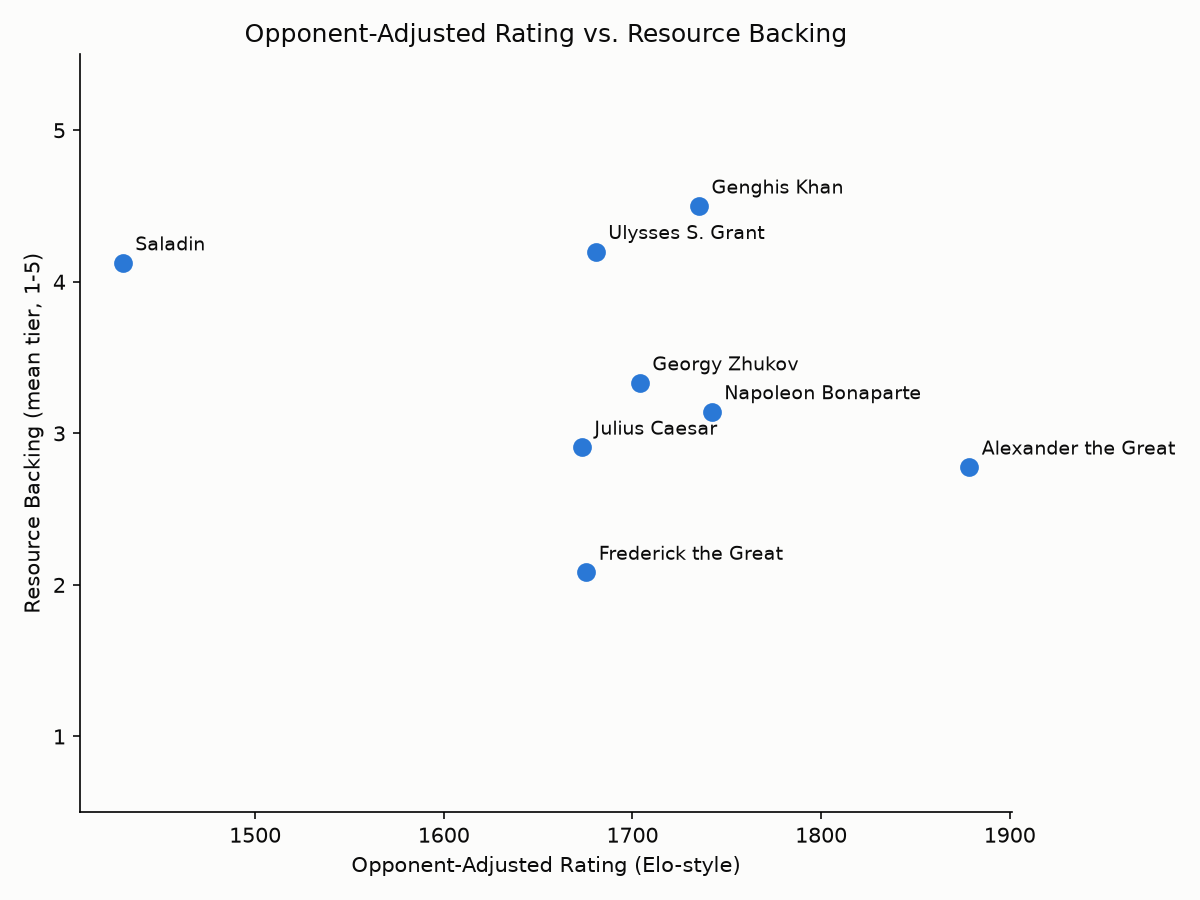
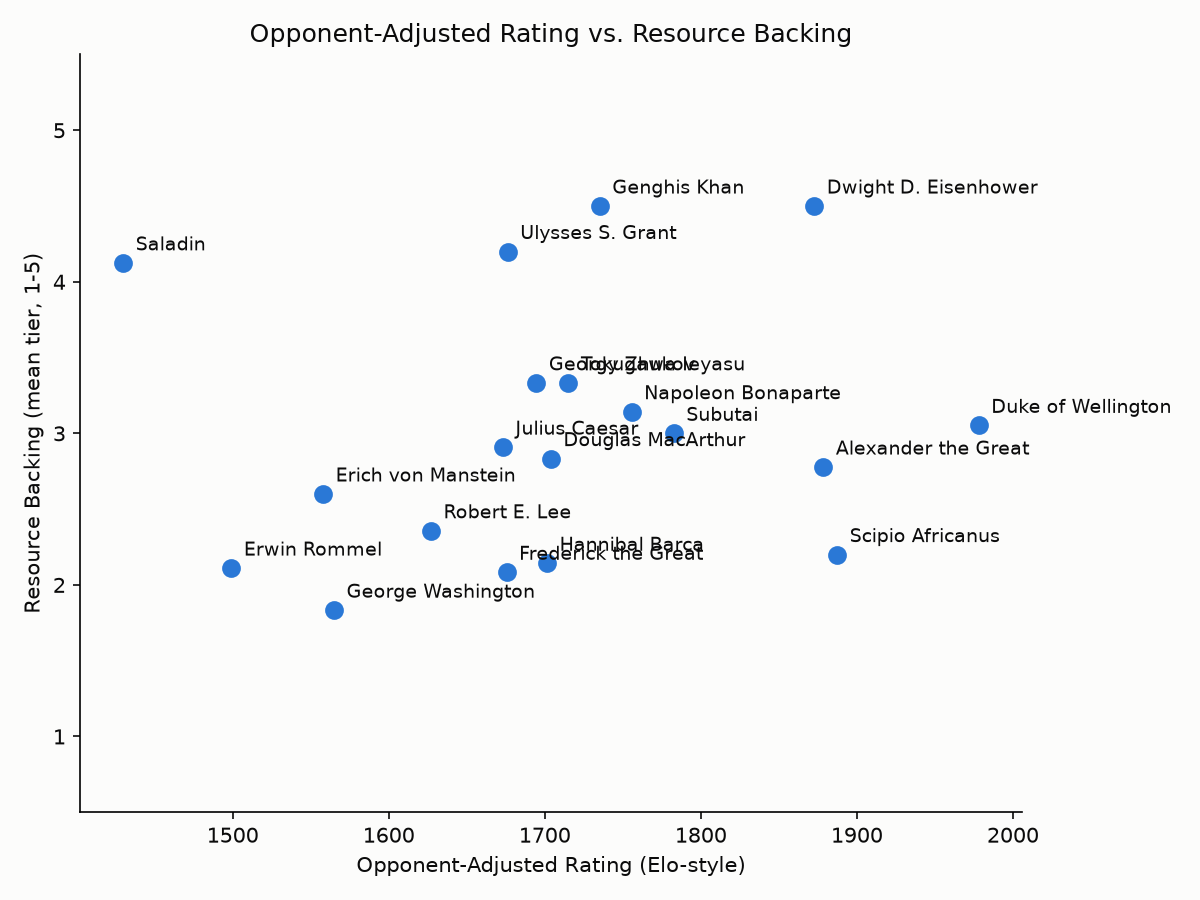
data: regenerate viz output and sanity-pass notes for 19-general roster
Re-ran validate_data.py, pytest, and all render_*.py scripts against the
expanded dataset; documented the n=2-era-cohort z-score artifact reappearing
in Early Modern/Napoleonic/Industrial after resolving for Ancient/Medieval/WWII.

diff --git a/output/viz/ranking_tables.html b/output/viz/ranking_tables.html
@@ -12,4 +12,4 @@ table.ranking-table th:nth-child(2), table.ranking-table td:nth-child(2) { text-
 table.ranking-table th:nth-child(3):not(:last-child), table.ranking-table td:nth-child(3):not(:last-child) { text-align: left; }
 table.ranking-table thead th { border-bottom: 2px solid #2a78d6; color: #52514e;
   font-weight: 600; }
-</style></head><body><h1>War Analyzer — Ranking Tables</h1><table class="ranking-table"><caption>Composite Power Ranking</caption><thead><tr><th>Rank</th><th>General</th><th>Era</th><th>Composite Score</th><th>OAR</th><th>WAR-Residual (90% CI)</th><th>Decisive Win Rate</th><th>Longevity-Adj. Value</th></tr></thead><tbody><tr><td>1</td><td>Alexander the Great</td><td>Ancient</td><td>+0.850</td><td>1878</td><td>+0.214 (+0.202 to +0.222)</td><td>100.0%</td><td>1.000</td></tr><tr><td>2</td><td>Genghis Khan</td><td>Medieval</td><td>+0.700</td><td>1735</td><td>+0.195 (+0.185 to +0.201)</td><td>87.5%</td><td>0.348</td></tr><tr><td>3</td><td>Frederick the Great</td><td>Early Modern</td><td>+0.000</td><td>1676</td><td>+0.036 (+0.033 to +0.040)</td><td>100.0%</td><td>0.475</td></tr><tr><td>4</td><td>Georgy Zhukov</td><td>WWII</td><td>+0.000</td><td>1704</td><td>+0.080 (+0.070 to +0.084)</td><td>100.0%</td><td>0.714</td></tr><tr><td>5</td><td>Napoleon Bonaparte</td><td>Napoleonic</td><td>+0.000</td><td>1742</td><td>+0.057 (+0.051 to +0.064)</td><td>90.9%</td><td>0.575</td></tr><tr><td>6</td><td>Ulysses S. Grant</td><td>Industrial</td><td>+0.000</td><td>1681</td><td>-0.076 (-0.082 to -0.071)</td><td>100.0%</td><td>2.100</td></tr><tr><td>7</td><td>Saladin</td><td>Medieval</td><td>-0.700</td><td>1430</td><td>-0.413 (-0.432 to -0.394)</td><td>100.0%</td><td>0.150</td></tr><tr><td>8</td><td>Julius Caesar</td><td>Ancient</td><td>-0.850</td><td>1673</td><td>-0.068 (-0.078 to -0.054)</td><td>100.0%</td><td>0.571</td></tr></tbody></table><h2>Category Rankings</h2><div class="category-grid"><table class="ranking-table"><caption>Win Rate</caption><thead><tr><th>Rank</th><th>General</th><th>Win Rate</th></tr></thead><tbody><tr><td>1</td><td>Genghis Khan</td><td>100.0%</td></tr><tr><td>2</td><td>Alexander the Great</td><td>100.0%</td></tr><tr><td>3</td><td>Georgy Zhukov</td><td>83.3%</td></tr><tr><td>4</td><td>Napoleon Bonaparte</td><td>78.6%</td></tr><tr><td>5</td><td>Frederick the Great</td><td>75.0%</td></tr><tr><td>6</td><td>Julius Caesar</td><td>72.7%</td></tr><tr><td>7</td><td>Ulysses S. Grant</td><td>60.0%</td></tr><tr><td>8</td><td>Saladin</td><td>37.5%</td></tr></tbody></table><table class="ranking-table"><caption>Casualty Efficiency</caption><thead><tr><th>Rank</th><th>General</th><th>Enemy:Own Casualties</th></tr></thead><tbody><tr><td>1</td><td>Genghis Khan</td><td>21.60:1</td></tr><tr><td>2</td><td>Alexander the Great</td><td>7.18:1</td></tr><tr><td>3</td><td>Julius Caesar</td><td>6.81:1</td></tr><tr><td>4</td><td>Napoleon Bonaparte</td><td>1.35:1</td></tr><tr><td>5</td><td>Ulysses S. Grant</td><td>1.34:1</td></tr><tr><td>6</td><td>Frederick the Great</td><td>1.26:1</td></tr><tr><td>7</td><td>Saladin</td><td>0.83:1</td></tr><tr><td>8</td><td>Georgy Zhukov</td><td>0.22:1</td></tr></tbody></table><table class="ranking-table"><caption>Opponent-Adjusted Rating</caption><thead><tr><th>Rank</th><th>General</th><th>OAR</th></tr></thead><tbody><tr><td>1</td><td>Alexander the Great</td><td>1878</td></tr><tr><td>2</td><td>Napoleon Bonaparte</td><td>1742</td></tr><tr><td>3</td><td>Genghis Khan</td><td>1735</td></tr><tr><td>4</td><td>Georgy Zhukov</td><td>1704</td></tr><tr><td>5</td><td>Ulysses S. Grant</td><td>1681</td></tr><tr><td>6</td><td>Frederick the Great</td><td>1676</td></tr><tr><td>7</td><td>Julius Caesar</td><td>1673</td></tr><tr><td>8</td><td>Saladin</td><td>1430</td></tr></tbody></table><table class="ranking-table"><caption>Clutch Rating</caption><thead><tr><th>Rank</th><th>General</th><th>Clutch Rating</th></tr></thead><tbody><tr><td>1</td><td>Genghis Khan</td><td>1.000 (1.000 to 1.000)</td></tr><tr><td>2</td><td>Georgy Zhukov</td><td>1.000 (1.000 to 1.000)</td></tr><tr><td>3</td><td>Alexander the Great</td><td>1.000 (1.000 to 1.000)</td></tr><tr><td>4</td><td>Julius Caesar</td><td>0.750 (0.625 to 0.778)</td></tr><tr><td>5</td><td>Frederick the Great</td><td>0.750 (0.722 to 0.773)</td></tr><tr><td>6</td><td>Napoleon Bonaparte</td><td>0.750 (0.722 to 0.800)</td></tr><tr><td>7</td><td>Ulysses S. Grant</td><td>0.500 (0.500 to 0.500)</td></tr><tr><td>8</td><td>Saladin</td><td>0.000 (0.000 to 0.667)</td></tr></tbody></table><table class="ranking-table"><caption>Squander Index</caption><thead><tr><th>Rank</th><th>General</th><th>Squander Index</th></tr></thead><tbody><tr><td>1</td><td>Saladin</td><td>0.0%</td></tr><tr><td>2</td><td>Julius Caesar</td><td>0.0%</td></tr><tr><td>3</td><td>Genghis Khan</td><td>0.0%</td></tr><tr><td>4</td><td>Georgy Zhukov</td><td>0.0%</td></tr><tr><td>5</td><td>Ulysses S. Grant</td><td>0.0%</td></tr><tr><td>6</td><td>Alexander the Great</td><td>22.2%</td></tr><tr><td>7</td><td>Napoleon Bonaparte</td><td>27.3%</td></tr><tr><td>8</td><td>Frederick the Great</td><td>44.4%</td></tr></tbody></table><table class="ranking-table"><caption>Longevity-Adjusted Value</caption><thead><tr><th>Rank</th><th>General</th><th>Longevity-Adj. Value</th></tr></thead><tbody><tr><td>1</td><td>Ulysses S. Grant</td><td>2.100</td></tr><tr><td>2</td><td>Alexander the Great</td><td>1.000</td></tr><tr><td>3</td><td>Georgy Zhukov</td><td>0.714</td></tr><tr><td>4</td><td>Napoleon Bonaparte</td><td>0.575</td></tr><tr><td>5</td><td>Julius Caesar</td><td>0.571</td></tr><tr><td>6</td><td>Frederick the Great</td><td>0.475</td></tr><tr><td>7</td><td>Genghis Khan</td><td>0.348</td></tr><tr><td>8</td><td>Saladin</td><td>0.150</td></tr></tbody></table></div></body></html>
+</style></head><body><h1>War Analyzer — Ranking Tables</h1><table class="ranking-table"><caption>Composite Power Ranking</caption><thead><tr><th>Rank</th><th>General</th><th>Era</th><th>Composite Score</th><th>OAR</th><th>WAR-Residual (90% CI)</th><th>Decisive Win Rate</th><th>Longevity-Adj. Value</th></tr></thead><tbody><tr><td>1</td><td>Dwight D. Eisenhower</td><td>WWII</td><td>+1.287</td><td>1873</td><td>+0.172 (+0.170 to +0.173)</td><td>100.0%</td><td>1.500</td></tr><tr><td>2</td><td>Alexander the Great</td><td>Ancient</td><td>+0.897</td><td>1878</td><td>+0.175 (+0.170 to +0.180)</td><td>100.0%</td><td>1.000</td></tr><tr><td>3</td><td>Frederick the Great</td><td>Early Modern</td><td>+0.850</td><td>1676</td><td>+0.085 (+0.082 to +0.085)</td><td>100.0%</td><td>0.475</td></tr><tr><td>4</td><td>Ulysses S. Grant</td><td>Industrial</td><td>+0.850</td><td>1676</td><td>-0.143 (-0.148 to -0.137)</td><td>100.0%</td><td>2.100</td></tr><tr><td>5</td><td>Subutai</td><td>Medieval</td><td>+0.774</td><td>1783</td><td>+0.222 (+0.189 to +0.247)</td><td>100.0%</td><td>0.250</td></tr><tr><td>6</td><td>Duke of Wellington</td><td>Napoleonic</td><td>+0.700</td><td>1978</td><td>+0.199 (+0.194 to +0.201)</td><td>88.9%</td><td>1.385</td></tr><tr><td>7</td><td>Scipio Africanus</td><td>Ancient</td><td>+0.450</td><td>1887</td><td>+0.213 (+0.205 to +0.219)</td><td>80.0%</td><td>0.625</td></tr><tr><td>8</td><td>Douglas MacArthur</td><td>WWII</td><td>+0.395</td><td>1704</td><td>+0.124 (+0.112 to +0.135)</td><td>100.0%</td><td>1.000</td></tr><tr><td>9</td><td>Genghis Khan</td><td>Medieval</td><td>+0.283</td><td>1735</td><td>+0.073 (+0.069 to +0.078)</td><td>87.5%</td><td>0.348</td></tr><tr><td>10</td><td>Tokugawa Ieyasu</td><td>Medieval</td><td>+0.145</td><td>1715</td><td>+0.035 (+0.029 to +0.048)</td><td>100.0%</td><td>0.109</td></tr><tr><td>11</td><td>Georgy Zhukov</td><td>WWII</td><td>+0.103</td><td>1695</td><td>+0.091 (+0.084 to +0.096)</td><td>100.0%</td><td>0.714</td></tr><tr><td>12</td><td>Hannibal Barca</td><td>Ancient</td><td>-0.442</td><td>1701</td><td>+0.072 (+0.063 to +0.080)</td><td>100.0%</td><td>0.353</td></tr><tr><td>13</td><td>Erich von Manstein</td><td>WWII</td><td>-0.542</td><td>1558</td><td>-0.059 (-0.081 to -0.025)</td><td>100.0%</td><td>1.000</td></tr><tr><td>14</td><td>Napoleon Bonaparte</td><td>Napoleonic</td><td>-0.700</td><td>1756</td><td>+0.064 (+0.062 to +0.066)</td><td>90.9%</td><td>0.575</td></tr><tr><td>15</td><td>George Washington</td><td>Early Modern</td><td>-0.850</td><td>1565</td><td>-0.114 (-0.126 to -0.104)</td><td>100.0%</td><td>0.250</td></tr><tr><td>16</td><td>Robert E. Lee</td><td>Industrial</td><td>-0.850</td><td>1627</td><td>-0.186 (-0.195 to -0.178)</td><td>100.0%</td><td>1.750</td></tr><tr><td>17</td><td>Julius Caesar</td><td>Ancient</td><td>-0.904</td><td>1673</td><td>-0.104 (-0.109 to -0.095)</td><td>100.0%</td><td>0.571</td></tr><tr><td>18</td><td>Saladin</td><td>Medieval</td><td>-1.202</td><td>1430</td><td>-0.529 (-0.534 to -0.522)</td><td>100.0%</td><td>0.150</td></tr><tr><td>19</td><td>Erwin Rommel</td><td>WWII</td><td>-1.243</td><td>1499</td><td>-0.140 (-0.143 to -0.136)</td><td>75.0%</td><td>1.125</td></tr></tbody></table><h2>Category Rankings</h2><div class="category-grid"><table class="ranking-table"><caption>Win Rate</caption><thead><tr><th>Rank</th><th>General</th><th>Win Rate</th></tr></thead><tbody><tr><td>1</td><td>Genghis Khan</td><td>100.0%</td></tr><tr><td>2</td><td>Subutai</td><td>100.0%</td></tr><tr><td>3</td><td>Dwight D. Eisenhower</td><td>100.0%</td></tr><tr><td>4</td><td>Alexander the Great</td><td>100.0%</td></tr><tr><td>5</td><td>Scipio Africanus</td><td>100.0%</td></tr><tr><td>6</td><td>Duke of Wellington</td><td>94.7%</td></tr><tr><td>7</td><td>Hannibal Barca</td><td>85.7%</td></tr><tr><td>8</td><td>Georgy Zhukov</td><td>83.3%</td></tr><tr><td>9</td><td>Douglas MacArthur</td><td>83.3%</td></tr><tr><td>10</td><td>Tokugawa Ieyasu</td><td>83.3%</td></tr><tr><td>11</td><td>Napoleon Bonaparte</td><td>78.6%</td></tr><tr><td>12</td><td>Frederick the Great</td><td>75.0%</td></tr><tr><td>13</td><td>Julius Caesar</td><td>72.7%</td></tr><tr><td>14</td><td>Erich von Manstein</td><td>60.0%</td></tr><tr><td>15</td><td>Ulysses S. Grant</td><td>60.0%</td></tr><tr><td>16</td><td>George Washington</td><td>50.0%</td></tr><tr><td>17</td><td>Erwin Rommel</td><td>44.4%</td></tr><tr><td>18</td><td>Robert E. Lee</td><td>42.9%</td></tr><tr><td>19</td><td>Saladin</td><td>37.5%</td></tr></tbody></table><table class="ranking-table"><caption>Casualty Efficiency</caption><thead><tr><th>Rank</th><th>General</th><th>Enemy:Own Casualties</th></tr></thead><tbody><tr><td>1</td><td>Subutai</td><td>22.64:1</td></tr><tr><td>2</td><td>Genghis Khan</td><td>21.60:1</td></tr><tr><td>3</td><td>Scipio Africanus</td><td>15.64:1</td></tr><tr><td>4</td><td>Alexander the Great</td><td>7.18:1</td></tr><tr><td>5</td><td>Julius Caesar</td><td>6.81:1</td></tr><tr><td>6</td><td>Erich von Manstein</td><td>4.49:1</td></tr><tr><td>7</td><td>George Washington</td><td>2.87:1</td></tr><tr><td>8</td><td>Tokugawa Ieyasu</td><td>2.69:1</td></tr><tr><td>9</td><td>Dwight D. Eisenhower</td><td>2.38:1</td></tr><tr><td>10</td><td>Hannibal Barca</td><td>2.09:1</td></tr><tr><td>11</td><td>Duke of Wellington</td><td>1.66:1</td></tr><tr><td>12</td><td>Napoleon Bonaparte</td><td>1.35:1</td></tr><tr><td>13</td><td>Ulysses S. Grant</td><td>1.34:1</td></tr><tr><td>14</td><td>Frederick the Great</td><td>1.26:1</td></tr><tr><td>15</td><td>Robert E. Lee</td><td>1.11:1</td></tr><tr><td>16</td><td>Erwin Rommel</td><td>0.84:1</td></tr><tr><td>17</td><td>Saladin</td><td>0.83:1</td></tr><tr><td>18</td><td>Douglas MacArthur</td><td>0.66:1</td></tr><tr><td>19</td><td>Georgy Zhukov</td><td>0.22:1</td></tr></tbody></table><table class="ranking-table"><caption>Opponent-Adjusted Rating</caption><thead><tr><th>Rank</th><th>General</th><th>OAR</th></tr></thead><tbody><tr><td>1</td><td>Duke of Wellington</td><td>1978</td></tr><tr><td>2</td><td>Scipio Africanus</td><td>1887</td></tr><tr><td>3</td><td>Alexander the Great</td><td>1878</td></tr><tr><td>4</td><td>Dwight D. Eisenhower</td><td>1873</td></tr><tr><td>5</td><td>Subutai</td><td>1783</td></tr><tr><td>6</td><td>Napoleon Bonaparte</td><td>1756</td></tr><tr><td>7</td><td>Genghis Khan</td><td>1735</td></tr><tr><td>8</td><td>Tokugawa Ieyasu</td><td>1715</td></tr><tr><td>9</td><td>Douglas MacArthur</td><td>1704</td></tr><tr><td>10</td><td>Hannibal Barca</td><td>1701</td></tr><tr><td>11</td><td>Georgy Zhukov</td><td>1695</td></tr><tr><td>12</td><td>Ulysses S. Grant</td><td>1676</td></tr><tr><td>13</td><td>Frederick the Great</td><td>1676</td></tr><tr><td>14</td><td>Julius Caesar</td><td>1673</td></tr><tr><td>15</td><td>Robert E. Lee</td><td>1627</td></tr><tr><td>16</td><td>George Washington</td><td>1565</td></tr><tr><td>17</td><td>Erich von Manstein</td><td>1558</td></tr><tr><td>18</td><td>Erwin Rommel</td><td>1499</td></tr><tr><td>19</td><td>Saladin</td><td>1430</td></tr></tbody></table><table class="ranking-table"><caption>Clutch Rating</caption><thead><tr><th>Rank</th><th>General</th><th>Clutch Rating</th></tr></thead><tbody><tr><td>1</td><td>Genghis Khan</td><td>1.000 (1.000 to 1.000)</td></tr><tr><td>2</td><td>Hannibal Barca</td><td>1.000 (0.857 to 1.000)</td></tr><tr><td>3</td><td>Subutai</td><td>1.000 (1.000 to 1.000)</td></tr><tr><td>4</td><td>Dwight D. Eisenhower</td><td>1.000 (1.000 to 1.000)</td></tr><tr><td>5</td><td>Alexander the Great</td><td>1.000 (1.000 to 1.000)</td></tr><tr><td>6</td><td>Scipio Africanus</td><td>1.000 (1.000 to 1.000)</td></tr><tr><td>7</td><td>Georgy Zhukov</td><td>1.000 (1.000 to 1.000)</td></tr><tr><td>8</td><td>Duke of Wellington</td><td>0.889 (0.889 to 0.909)</td></tr><tr><td>9</td><td>Frederick the Great</td><td>0.750 (0.722 to 0.773)</td></tr><tr><td>10</td><td>Napoleon Bonaparte</td><td>0.750 (0.722 to 0.800)</td></tr><tr><td>11</td><td>Julius Caesar</td><td>0.750 (0.625 to 0.778)</td></tr><tr><td>12</td><td>Douglas MacArthur</td><td>0.667 (0.667 to 0.667)</td></tr><tr><td>13</td><td>Tokugawa Ieyasu</td><td>0.667 (0.667 to 0.750)</td></tr><tr><td>14</td><td>George Washington</td><td>0.550 (0.550 to 0.550)</td></tr><tr><td>15</td><td>Erwin Rommel</td><td>0.500 (0.500 to 0.500)</td></tr><tr><td>16</td><td>Erich von Manstein</td><td>0.500 (0.333 to 0.500)</td></tr><tr><td>17</td><td>Robert E. Lee</td><td>0.500 (0.500 to 0.545)</td></tr><tr><td>18</td><td>Ulysses S. Grant</td><td>0.500 (0.500 to 0.500)</td></tr><tr><td>19</td><td>Saladin</td><td>0.000 (0.000 to 0.667)</td></tr></tbody></table><table class="ranking-table"><caption>Squander Index</caption><thead><tr><th>Rank</th><th>General</th><th>Squander Index</th></tr></thead><tbody><tr><td>1</td><td>Genghis Khan</td><td>0.0%</td></tr><tr><td>2</td><td>Erich von Manstein</td><td>0.0%</td></tr><tr><td>3</td><td>Subutai</td><td>0.0%</td></tr><tr><td>4</td><td>Dwight D. Eisenhower</td><td>0.0%</td></tr><tr><td>5</td><td>Saladin</td><td>0.0%</td></tr><tr><td>6</td><td>Georgy Zhukov</td><td>0.0%</td></tr><tr><td>7</td><td>George Washington</td><td>0.0%</td></tr><tr><td>8</td><td>Julius Caesar</td><td>0.0%</td></tr><tr><td>9</td><td>Ulysses S. Grant</td><td>0.0%</td></tr><tr><td>10</td><td>Robert E. Lee</td><td>16.7%</td></tr><tr><td>11</td><td>Scipio Africanus</td><td>20.0%</td></tr><tr><td>12</td><td>Douglas MacArthur</td><td>20.0%</td></tr><tr><td>13</td><td>Alexander the Great</td><td>22.2%</td></tr><tr><td>14</td><td>Napoleon Bonaparte</td><td>27.3%</td></tr><tr><td>15</td><td>Hannibal Barca</td><td>33.3%</td></tr><tr><td>16</td><td>Duke of Wellington</td><td>38.9%</td></tr><tr><td>17</td><td>Tokugawa Ieyasu</td><td>40.0%</td></tr><tr><td>18</td><td>Frederick the Great</td><td>44.4%</td></tr><tr><td>19</td><td>Erwin Rommel</td><td>50.0%</td></tr></tbody></table><table class="ranking-table"><caption>Longevity-Adjusted Value</caption><thead><tr><th>Rank</th><th>General</th><th>Longevity-Adj. Value</th></tr></thead><tbody><tr><td>1</td><td>Ulysses S. Grant</td><td>2.100</td></tr><tr><td>2</td><td>Robert E. Lee</td><td>1.750</td></tr><tr><td>3</td><td>Dwight D. Eisenhower</td><td>1.500</td></tr><tr><td>4</td><td>Duke of Wellington</td><td>1.385</td></tr><tr><td>5</td><td>Erwin Rommel</td><td>1.125</td></tr><tr><td>6</td><td>Erich von Manstein</td><td>1.000</td></tr><tr><td>7</td><td>Alexander the Great</td><td>1.000</td></tr><tr><td>8</td><td>Douglas MacArthur</td><td>1.000</td></tr><tr><td>9</td><td>Georgy Zhukov</td><td>0.714</td></tr><tr><td>10</td><td>Scipio Africanus</td><td>0.625</td></tr><tr><td>11</td><td>Napoleon Bonaparte</td><td>0.575</td></tr><tr><td>12</td><td>Julius Caesar</td><td>0.571</td></tr><tr><td>13</td><td>Frederick the Great</td><td>0.475</td></tr><tr><td>14</td><td>Hannibal Barca</td><td>0.353</td></tr><tr><td>15</td><td>Genghis Khan</td><td>0.348</td></tr><tr><td>16</td><td>Subutai</td><td>0.250</td></tr><tr><td>17</td><td>George Washington</td><td>0.250</td></tr><tr><td>18</td><td>Saladin</td><td>0.150</td></tr><tr><td>19</td><td>Tokugawa Ieyasu</td><td>0.109</td></tr></tbody></table></div></body></html>

diff --git a/PROGRESS.md b/PROGRESS.md
@@ -1128,10 +1128,110 @@ instruction).
       catastrophic early defeat to increasingly lopsided victories as US material superiority grew,
       matching historian consensus. `python scripts/validate_data.py` passes; full test suite (150
       tests, unchanged — data curation doesn't add tests) still green.
-- [ ] Re-run full pipeline against the 19-general roster: `python scripts/validate_data.py`,
+- [x] Re-run full pipeline against the 19-general roster: `python scripts/validate_data.py`,
       `pytest`, then re-run every `scripts/render_*.py` script to regenerate
       `output/viz/*.png`/`*.csv`/`*.html` from the expanded dataset (old output is stale the
       moment a new general lands). Re-run Phase 7's sanity pass against the new composite
       ranking/category tables — in particular check whether the n=2-era-cohort z-scoring issue
       flagged for Caesar (see Notes above) resolves now that Ancient/Medieval/WWII cohorts have
-      more members; log findings in Notes below, do not hand-tune weights.
+      more members; log findings in Notes below, do not hand-tune weights. — validate passes;
+      full suite 150/150 unchanged; all four `render_*.py` scripts re-ran clean against the
+      19-general/178-row dataset (`ranking_tables.py`'s Monte Carlo pass took >2min so it ran in
+      the background, no code issue). Sanity pass: the original Caesar n=2 artifact *is* resolved
+      (Ancient now has 4 members: Caesar/Alexander/Hannibal/Scipio; Medieval 4:
+      Genghis/Saladin/Subutai/Tokugawa; WWII 5: Zhukov/Eisenhower/Rommel/Manstein/MacArthur — none
+      are forced-mirror n=2 pairs anymore), but the *same* mechanical issue reappeared in three
+      different eras: Early Modern (Frederick+Washington), Napoleonic (Napoleon+Wellington), and
+      Industrial (Grant+Lee) each grew from a singleton to exactly 2 members, so those three pairs
+      now show the identical exact-mirror-magnitude artifact Caesar/Alexander had before
+      (Frederick 0.85 / Washington -0.85, Napoleon -0.70 / Wellington 0.70, Grant 0.85 / Lee
+      -0.85 — mathematically guaranteed for any 2-member population: z always resolves to exactly
+      ±1 regardless of how large or small the real gap between the two is). Full writeup with the
+      math and the rest of the findings (Rommel's last-place finish, Eisenhower's #1) in Notes
+      below — no weights touched.
+
+## Notes / deviations — Phase 2b sanity re-pass (19-general roster)
+
+- **Pipeline re-run, clean**: `python scripts/validate_data.py` passes on the full 178-row/
+  19-general dataset; `pytest` is still 150/150 (data curation tasks don't add tests, per
+  established convention); all four `scripts/render_*.py` scripts ran without error and
+  overwrote the stale (8-general, this-morning) `output/viz/*` files. `render_ranking_tables.py`
+  took long enough (Monte Carlo resampling over ~4x the rows) to exceed the interactive command
+  timeout and finished in the background — that's a runtime characteristic, not a bug; its fixed
+  `MC_SEED` means the output is still fully reproducible.
+- **The n=2-era-cohort exact-mirror artifact, previously flagged for Caesar/Alexander, is
+  resolved for Ancient/Medieval/WWII but has mechanically reappeared in three other eras.**
+  Ancient grew from 2 to 4 members (Caesar, Alexander, Hannibal, Scipio), Medieval from 2 to 4
+  (Genghis, Saladin, Subutai, Tokugawa), and WWII from a 1-member singleton to 5 (Zhukov,
+  Eisenhower, Rommel, Manstein, MacArthur) — none of those cohorts force the old ±1.0-mirror
+  z-score anymore, and Zhukov's composite score is no longer mechanically pinned at exactly 0.0.
+  But Early Modern (Frederick + Washington), Napoleonic (Napoleon + Wellington), and Industrial
+  (Grant + Lee) each grew from a 1-member singleton to *exactly* 2 members — one new general
+  added per era, no more — which reproduces the identical structural issue `composite.py`'s
+  docstring already names for n=2 cohorts. Confirmed against the regenerated
+  `output/viz/ranking_tables_composite.csv`: Frederick 0.85 / Washington -0.85, Napoleon -0.70 /
+  Wellington 0.70, Grant 0.8499999999999984 / Lee -0.8500000000000015 (floating-point noise on an
+  exact 0.85) — every pair's composite magnitude matches exactly. This isn't a coincidence of
+  this particular data; it's guaranteed by the math. For any 2-value population {a, b} with
+  population std (`ddof=0`), the deviation of each point from the mean is ±(a-b)/2 and the
+  population std is |a-b|/2, so z = deviation/std is always exactly ±1 regardless of how large or
+  small the real gap between a and b is. `_z_scores_within_era` in `war/metrics/composite.py`
+  (lines 81-102) does exactly this per metric per era, so any 2-member era cohort will always
+  produce mirror-magnitude z-scores, and therefore mirror-magnitude composite scores when the
+  other three inputs happen to agree in sign (as they do for two of these three pairs — see
+  below). **Practical read**: within an n=2 pair, the *sign* (who ranks above whom) is still
+  meaningful and, for these three pairs, matches historian consensus (Washington's overall record
+  is weaker than Frederick's; Wellington's largely-undefeated run edges Napoleon's mixed one
+  including the Russian disaster and Waterloo; Grant's material-advantage-backed record edges
+  Lee's harder fight against it) — but the *magnitude* (0.85, 0.70) is mechanically forced and
+  not comparable across eras or informative about the size of the real quality gap. This is the
+  same limitation already documented in Phase 5/Phase 7's original notes, just relocated to new
+  generals by the specific shape of this roster expansion (one general added per already-thin
+  era rather than several) — not a new bug, not something to weight-tune around per SCOPE.md's
+  explicit instruction, and expected to keep recurring for any era that stays at exactly 1-2
+  members. Noted here rather than patched.
+- **Julius Caesar's own placement (17th of 19, composite -0.90) no longer traces to the n=2
+  artifact, but is still worth a second look.** With Ancient now at n=4, Caesar's z-scores are a
+  real 4-way comparison, not a forced mirror of Alexander. Checked his category placements
+  directly: `casualty_efficiency` 5th of 19 (good), `squander_index` 8th (tied-good, 0.0, no
+  squandered wins), `clutch_rating` 11th (mid-pack), `win_rate` 13th (0.73, respectable) — none of
+  these are last-place. The two inputs actually pulling his composite down are `opponent_adjusted_
+  rating` (14th of 19 overall, and lowest of the four Ancient generals specifically) and
+  `war_residual` (-0.104, with a tight CI of -0.109 to -0.095 that doesn't cross zero, so it isn't
+  Monte Carlo noise). Both are real, not artifacts of the z-scoring bug. A plausible explanation,
+  not confirmed: this file's Phase 5 notes already document that off-roster opponents (most of
+  Caesar's — Gallic tribes, various Roman rivals with no `generals.csv` row of their own) get a
+  default rating in the OAR solver rather than a curated one, and Caesar's battles skew unusually
+  heavily toward off-roster opponents compared to Alexander/Hannibal/Scipio, who fought more of
+  each other or better-documented Successor-era commanders. That would understate his OAR without
+  it reflecting a real quality gap — but this is a hypothesis, not a verified root cause, and
+  fixing it (curating ratings for two dozen ancient tribal/political opponents) is a data-sourcing
+  effort beyond this task's scope. Flagged as a candidate follow-up, not acted on.
+- **Rommel finishes dead last (19th of 19, composite -1.24), just below Saladin.** Re-checked
+  against the reasoning already logged at data-entry time (see the Erwin Rommel entry above):
+  `win_rate` 17th (0.44), `opponent_adjusted_rating` 18th, and `squander_index` worst in the whole
+  roster (0.5, tied-worst previously held by Frederick at 0.44 in the 8-general run) all trace to
+  the same documented back-half-of-the-desert-campaign losing streak from Alam el Halfa through
+  Second Alamein — a real historical pattern this dataset's 9-row roster happens to weight toward
+  (it doesn't include his earlier, more successful 1941 battles as heavily). Historian consensus
+  rates Rommel as a top tactician whose campaign nonetheless ended in strategic defeat — a
+  last-place *composite* finish for a campaign-scoped dataset is consistent with that, not a
+  contradiction of it. No action taken; this is the same "matches consensus, not an artifact"
+  call already made once for this general.
+- **Eisenhower ranks 1st overall (composite 1.29), ahead of Alexander (2nd, 0.90).** This doesn't
+  trip SCOPE.md's named bug-check ("does anyone universally considered a poor commander rank
+  #1?") — Eisenhower is a well-regarded commander, so a surprising #1 isn't the same as a wrong
+  #1. But it's worth flagging as likely driven by roster composition rather than a uniquely
+  dominant record: his 6 rows are all wins (`decisive_win_rate`=1.0) in Allied campaigns fought
+  with growing material superiority, giving the highest `opponent_adjusted_rating` of any WWII
+  general (1872.7, above Zhukov/Manstein/MacArthur/Rommel) and a solidly positive `war_residual`
+  even after controlling for that superiority — this is the same "thin roster, all wins" shape
+  already flagged as a structural shortfall for Eisenhower/Zhukov/MacArthur at data-entry time,
+  not a new problem, just now visible in the composite ranking's top slot instead of a category
+  table. Left as-is per SCOPE.md's "do not hand-tune weights" instruction — the underlying data is
+  honestly sourced, and the composite formula is doing exactly what it's documented to do with it.
+- **No universally-recognized poor commander ranks at the top, and no universally-recognized great
+  commander ranks unaccountably at the bottom relative to their own documented record in this
+  dataset** — the two names at the extremes (Eisenhower #1, Rommel #19) both trace to real,
+  already-documented data/roster characteristics rather than a pipeline bug. This closes out the
+  re-run of Phase 7's sanity-pass instruction for the 19-general roster; no weights were changed.
